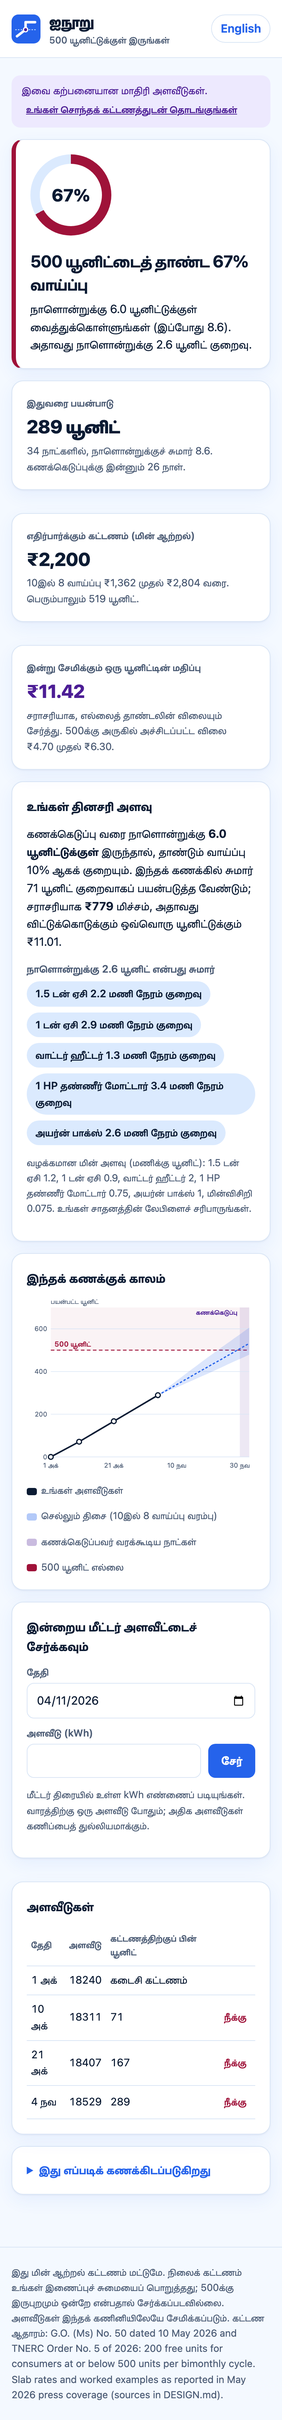
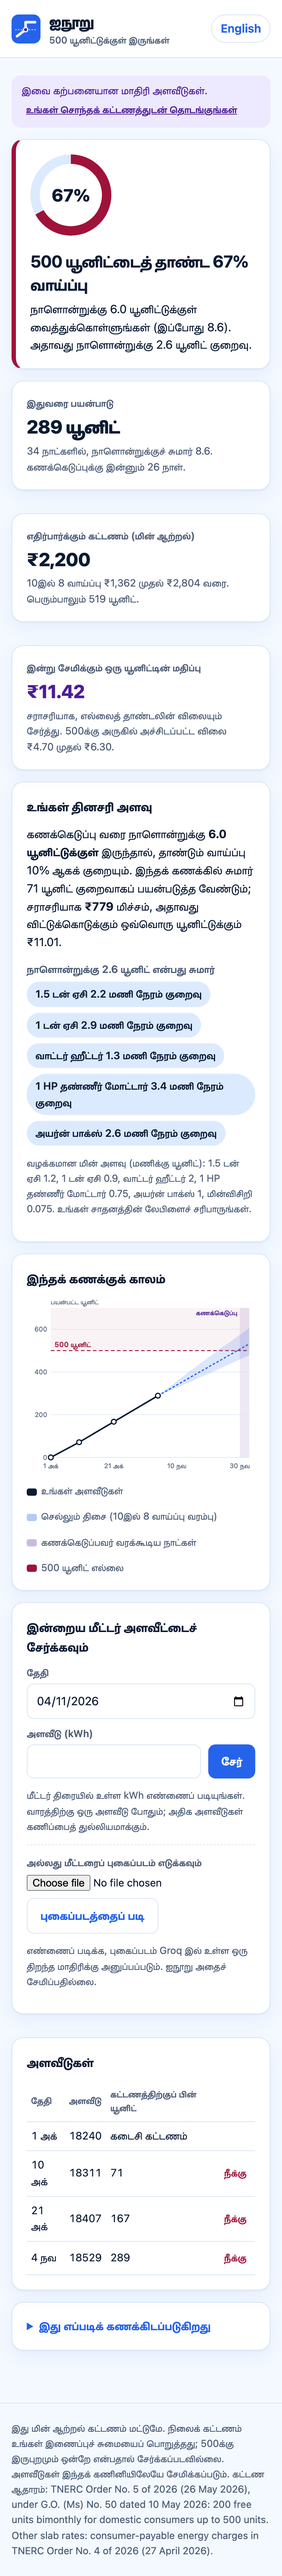
Refresh screenshots and link the Tamil view

diff --git a/README.md b/README.md
@@ -25,6 +25,8 @@ That one unit costs ₹478.40. Before May 2026 it cost ₹243.40, so the cliff h
 
 ![Dashboard with sample readings](docs/screenshots/dashboard.png)
 
+The same screen in Tamil: [docs/screenshots/dashboard-tamil.png](docs/screenshots/dashboard-tamil.png). Phone views and the photo step are in `docs/screenshots/`.
+
 ## Run it
 
 You need [uv](https://docs.astral.sh/uv/). It installs the right Python for you.
